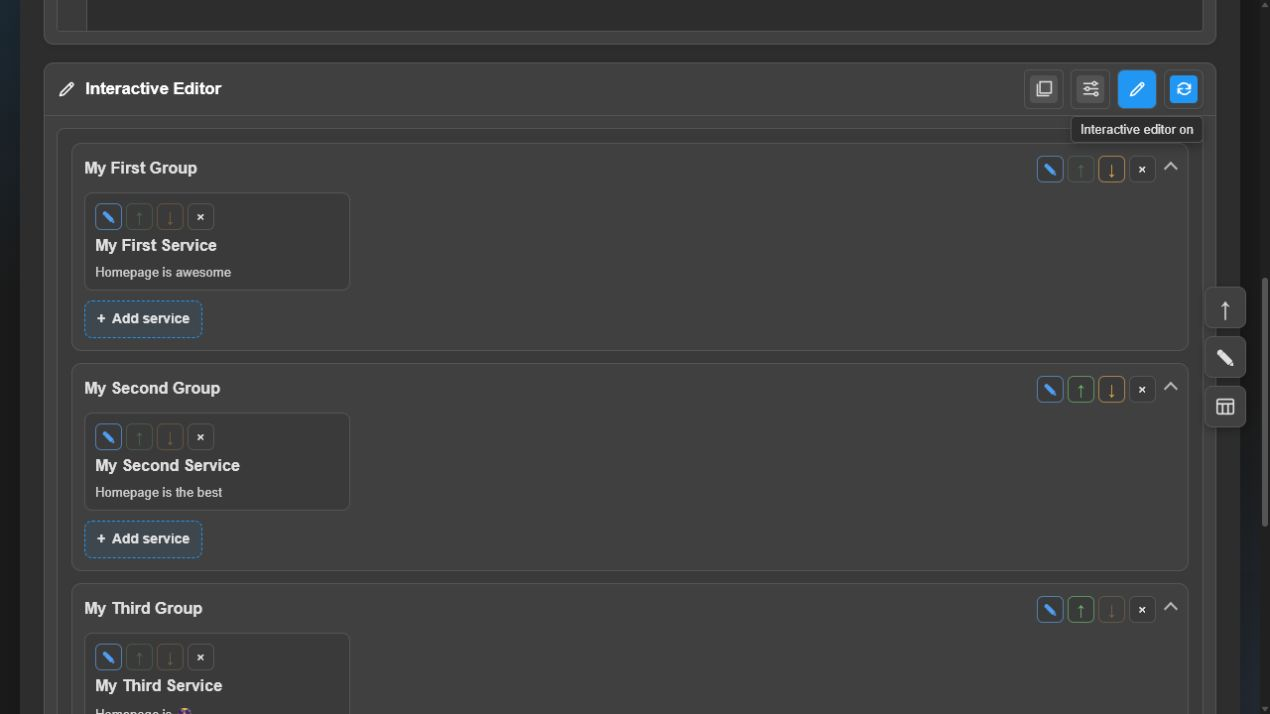
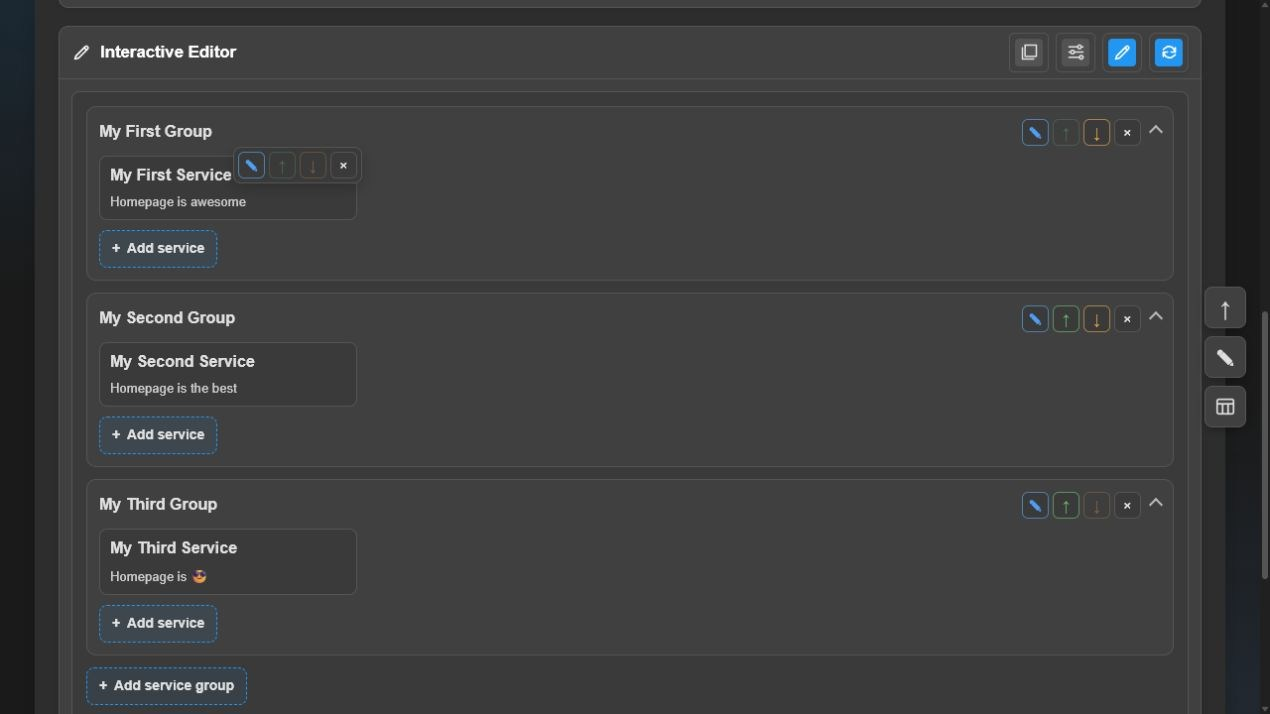
Add custom page titles and improve preview editing controls

diff --git a/public/styles.css b/public/styles.css
@@ -657,6 +657,7 @@
         .app-footer-link {
             display: inline-flex;
             align-items: center;
+            gap: 4px;
             color: inherit;
             text-decoration: none;
         }
@@ -836,6 +837,8 @@
         .refresh-btn:focus-visible > .preview-control-label,
         .toolbar-button.toolbar-icon-control:hover > .preview-control-label,
         .toolbar-button.toolbar-icon-control:focus-visible > .preview-control-label,
+        .preview-edit-action:hover > .preview-control-label,
+        .preview-edit-action:focus-visible > .preview-control-label,
         .preview-refresh-toggle:hover > .preview-control-label,
         .preview-refresh-toggle:has(input:focus-visible) > .preview-control-label {
             overflow: visible;
@@ -843,6 +846,15 @@
             clip-path: none;
             opacity: 1;
             transform: translate(-50%, 0);
+        }
+        .preview-edit-action:last-child > .preview-edit-action-label {
+            left: auto;
+            right: 0;
+            transform: translateY(-4px);
+        }
+        .preview-edit-action:last-child:hover > .preview-edit-action-label,
+        .preview-edit-action:last-child:focus-visible > .preview-edit-action-label {
+            transform: translateY(0);
         }
         .preview-canvas {
             margin: 12px;
@@ -1250,6 +1262,7 @@
             flex: 0 0 auto;
         }
         .bookmark-card {
+            position: relative;
             display: flex;
             align-items: center;
             min-width: 0;
@@ -1286,6 +1299,12 @@
         }
         .bookmark-card > .preview-edit-actions {
             margin-left: auto;
+        }
+        .preview-edit-enabled .bookmark-card-link {
+            cursor: default;
+        }
+        .preview-edit-enabled .bookmark-card-arrow {
+            display: none;
         }
         .bookmark-card-mark {
             display: grid;
@@ -1329,6 +1348,7 @@
             gap: 12px;
         }
         .dashboard-group {
+            position: relative;
             background: var(--config-item-bg);
             border: 1px solid var(--border-color);
             border-radius: 10px;
@@ -1549,17 +1569,17 @@
             position: relative;
             display: inline-grid;
             place-items: center;
-            width: 27px;
-            height: 27px;
-            min-width: 27px;
+            width: 32px;
+            height: 32px;
+            min-width: 32px;
             margin: 0;
             padding: 0;
             border: 1px solid var(--border-color);
-            border-radius: 6px;
+            border-radius: 7px;
             background: var(--preview-bg);
             color: var(--text-color);
             box-shadow: none;
-            font-size: 15px;
+            font-size: 16px;
             font-weight: 700;
             line-height: 1;
         }
@@ -1610,13 +1630,37 @@
             opacity: 0.35;
             transform: none;
         }
-        .dashboard-card > .preview-edit-actions {
-            position: static;
+        .dashboard-card > .preview-edit-actions,
+        .bookmark-card > .preview-edit-actions,
+        .dashboard-group > .dashboard-group-title > .preview-edit-actions {
+            position: absolute;
+            top: -10px;
+            right: -6px;
+            z-index: 2;
             justify-content: flex-end;
-            margin: 0 0 7px;
+            margin: 0;
+            padding: 4px;
+            border: 1px solid var(--border-color);
+            border-radius: 8px;
+            background: var(--preview-bg);
+            box-shadow: 0 5px 14px rgba(0, 0, 0, 0.2);
+            opacity: 0;
+            pointer-events: none;
+            transform: translateY(4px);
+            transition: opacity 0.15s ease, transform 0.15s ease;
         }
-        .preview-edit-enabled .dashboard-group-title::after {
-            margin-left: 0;
+        .dashboard-card:hover > .preview-edit-actions,
+        .dashboard-card > .preview-edit-actions:focus-within,
+        .bookmark-card:hover > .preview-edit-actions,
+        .bookmark-card > .preview-edit-actions:focus-within,
+        .dashboard-group:hover > .dashboard-group-title > .preview-edit-actions,
+        .dashboard-group > .dashboard-group-title > .preview-edit-actions:focus-within {
+            opacity: 1;
+            pointer-events: auto;
+            transform: translateY(0);
+        }
+        details.dashboard-group > .dashboard-group-title > .preview-edit-actions {
+            right: 34px;
         }
         .preview-add-button {
             display: inline-flex;
@@ -1642,7 +1686,9 @@
             transform: none;
         }
         .preview-add-service {
-            margin-top: 10px;
+            align-self: start;
+            justify-self: start;
+            margin-top: 0;
         }
         .preview-add-bookmark,
         .preview-add-bookmark-group {
@@ -2588,6 +2634,41 @@
             font-size: 0.78rem;
             line-height: 1.35;
             opacity: 0.7;
+        }
+        .settings-text-field {
+            display: grid;
+            gap: 6px;
+            min-width: 0;
+            padding: 9px 10px;
+            border: 1px solid var(--border-color);
+            border-radius: 10px;
+            background: var(--config-item-bg);
+            color: var(--text-color);
+        }
+        .settings-text-field > span {
+            font-size: 0.92rem;
+            font-weight: 600;
+        }
+        .settings-text-field > input {
+            width: 100%;
+            min-width: 0;
+            padding: 9px 10px;
+            box-sizing: border-box;
+            border: 1px solid var(--border-color);
+            border-radius: 7px;
+            background: var(--preview-bg);
+            color: var(--text-color);
+            font: inherit;
+        }
+        .settings-text-field > input:focus {
+            border-color: var(--button-bg);
+            outline: 2px solid color-mix(in srgb, var(--button-bg) 35%, transparent);
+            outline-offset: 1px;
+        }
+        .settings-text-field > small {
+            font-size: 0.78rem;
+            line-height: 1.25;
+            opacity: 0.68;
         }
         .settings-yaml-tabs {
             display: grid;

diff --git a/public/app.js b/public/app.js
@@ -19,6 +19,7 @@
         });
         const sampleConfigs = Object.fromEntries(configTabNames.map((tabName) => [tabName, '']));
         const createNewTabGroupValue = '__create_new_service_group__';
+        const defaultPageTitle = 'Homepage YAML Editor';
 
         async function loadSampleConfigs() {
             const response = await fetch('/api/examples', { cache: 'no-store' });
@@ -2494,7 +2495,7 @@
                     : action.endsWith('.move-down')
                         ? ' preview-edit-move-down'
                         : '';
-            return `<button type="button" class="preview-edit-action${dangerClass}${actionClass}" data-preview-action="${escapeHtml(action)}" ${getSourceAttributes(source)} aria-label="${escapeHtml(label)}" title="${escapeHtml(label)}"${disabled ? ' disabled' : ''}>${icon}</button>`;
+            return `<button type="button" class="preview-edit-action${dangerClass}${actionClass}" data-preview-action="${escapeHtml(action)}" ${getSourceAttributes(source)} aria-label="${escapeHtml(label)}"${disabled ? ' disabled' : ''}>${icon}<span class="preview-control-label preview-edit-action-label" aria-hidden="true">${escapeHtml(label)}</span></button>`;
         }
 
         function getGroupEditControls(source, position, groupCount) {
@@ -2721,14 +2722,17 @@
                 const addServiceButton = previewEditMode
                     ? `<button type="button" class="preview-add-button preview-add-service" data-preview-action="service.add" ${getSourceAttributes(serviceGroupSource)}><span aria-hidden="true">+</span> Add service</button>`
                     : '';
+                const serviceCardsGrid = cards || addServiceButton
+                    ? `<div class="dashboard-cards">${cards}${addServiceButton}</div>`
+                    : '';
                 const hasNestedGroups = Array.isArray(entries) && entries.some(isNestedServiceGroup);
                 if (hasNestedGroups) {
-                    groupsHtml += `<section class="dashboard-group dashboard-group-nested-root"${getPreviewLayoutAttributes(layoutConfig)}><div class="dashboard-group-title">${groupIcon}<span class="preview-jump-target" ${getSourceAttributes(groupSource)} ${groupTooltip}>${escapeHtml(groupName || 'Services')}</span>${groupEditControls}</div>${cards ? `<div class="dashboard-cards">${cards}</div>` : ''}<div class="dashboard-nested-groups" style="--preview-nested-columns: ${getNestedGroupColumns(layoutConfig)}">${nestedGroups}</div>${addServiceButton}</section>`;
+                    groupsHtml += `<section class="dashboard-group dashboard-group-nested-root"${getPreviewLayoutAttributes(layoutConfig)}><div class="dashboard-group-title">${groupIcon}<span class="preview-jump-target" ${getSourceAttributes(groupSource)} ${groupTooltip}>${escapeHtml(groupName || 'Services')}</span>${groupEditControls}</div>${serviceCardsGrid}<div class="dashboard-nested-groups" style="--preview-nested-columns: ${getNestedGroupColumns(layoutConfig)}">${nestedGroups}</div></section>`;
                 } else {
                     if (!cards) {
                         addPreviewNotice(`No services configured in ${groupName || 'this group'}.`);
                     }
-                    groupsHtml += `<details class="dashboard-group"${getPreviewLayoutAttributes(layoutConfig)} ${isCollapsed ? '' : 'open'}><summary class="dashboard-group-title">${groupIcon}<span class="preview-jump-target" ${getSourceAttributes(groupSource)} ${groupTooltip}>${escapeHtml(groupName || 'Services')}</span>${groupEditControls}</summary>${cards ? `<div class="dashboard-cards">${cards}</div>` : ''}${addServiceButton}</details>`;
+                    groupsHtml += `<details class="dashboard-group"${getPreviewLayoutAttributes(layoutConfig)} ${isCollapsed ? '' : 'open'}><summary class="dashboard-group-title">${groupIcon}<span class="preview-jump-target" ${getSourceAttributes(groupSource)} ${groupTooltip}>${escapeHtml(groupName || 'Services')}</span>${groupEditControls}</summary>${serviceCardsGrid}</details>`;
                 }
             });
 
@@ -2775,16 +2779,17 @@
                         : '';
                     const href = getSafeLinkUrl(bookmarkData.href);
                     const abbr = String(bookmarkData.abbr || '').trim();
+                    const description = bookmarkData.description == null ? '' : String(bookmarkData.description).trim();
                     const bookmarkTooltip = getPreviewTooltipAttributes([
-                        'Jump to this bookmark in bookmarks.yaml',
-                        `Group: ${groupName}`,
+                        'Jump to this item in bookmarks.yaml',
                         `Bookmark: ${bookmarkName}`,
+                        ...getPreviewDetailLines(bookmarkData, ['description', 'href', 'icon', 'abbr']),
                     ], { focusable: false });
                     bookmarkLinkCount += 1;
                     return `<div class="bookmark-card">
                         <a class="bookmark-card-link preview-jump-target" href="${escapeHtml(href)}" target="_blank" rel="noopener noreferrer" ${getSourceAttributes(bookmarkSource)} ${bookmarkTooltip}>
                             <span class="bookmark-card-mark" aria-hidden="true">${abbr ? escapeHtml(abbr.slice(0, 4)) : '&#8599;'}</span>
-                            <span class="bookmark-card-copy"><span class="bookmark-card-name">${escapeHtml(bookmarkName)}</span></span>
+                            <span class="bookmark-card-copy"><span class="bookmark-card-name">${escapeHtml(bookmarkName)}</span>${description ? `<span class="dashboard-card-desc">${escapeHtml(description)}</span>` : ''}</span>
                             <span class="bookmark-card-arrow" aria-hidden="true">&#8594;</span>
                         </a>
                         ${bookmarkEditControls}
@@ -2908,6 +2913,7 @@
         let settingsTabOrderDraft = [...configTabNames];
         let savedAppSettings = {
             theme: document.body.classList.contains('light-mode') ? 'light' : 'dark',
+            customPageTitle: '',
             autoIndent: autoIndentToggle.checked,
             previewAutoRefresh: previewAutoRefreshToggle.checked,
             editorVisible: editorVisibilityToggle.checked,
@@ -2993,6 +2999,7 @@
         function applyPersistentAppSettings(settings) {
             savedAppSettings = {
                 theme: settings.theme === 'light' ? 'light' : 'dark',
+                customPageTitle: typeof settings.customPageTitle === 'string' ? settings.customPageTitle.trim() : '',
                 autoIndent: settings.autoIndent !== false,
                 previewAutoRefresh: settings.previewAutoRefresh !== false,
                 editorVisible: settings.editorVisible !== false,
@@ -3001,6 +3008,9 @@
                 visibleTabs: normalizeVisibleConfigTabs(settings.visibleTabs, normalizeConfigTabOrder(settings.tabOrder))
             };
             applyConfigTabNavigation();
+            const pageTitle = savedAppSettings.customPageTitle || defaultPageTitle;
+            document.title = pageTitle;
+            document.getElementById('app-title').textContent = pageTitle;
             applyTheme(savedAppSettings.theme !== 'light');
             autoIndentToggle.checked = savedAppSettings.autoIndent;
             previewAutoRefreshToggle.checked = savedAppSettings.previewAutoRefresh;
@@ -3079,6 +3089,7 @@
             settingsModalPreviousFocus = document.activeElement;
             const settings = getPersistentAppSettings();
             document.querySelector(`input[name="settings-theme"][value="${settings.theme}"]`).checked = true;
+            document.getElementById('settings-custom-page-title').value = settings.customPageTitle;
             document.getElementById('settings-auto-indent').checked = settings.autoIndent;
             document.getElementById('settings-preview-auto-refresh').checked = settings.previewAutoRefresh;
             document.getElementById('settings-editor-visible').checked = settings.editorVisible;
@@ -3105,6 +3116,7 @@
             const tabSettings = getSettingsTabDraftFromControls();
             applyPersistentAppSettings({
                 theme,
+                customPageTitle: document.getElementById('settings-custom-page-title').value,
                 autoIndent: document.getElementById('settings-auto-indent').checked,
                 previewAutoRefresh: document.getElementById('settings-preview-auto-refresh').checked,
                 editorVisible: document.getElementById('settings-editor-visible').checked,
@@ -3228,6 +3240,15 @@
             if (target.classList.contains('preview-tab-btn')) {
                 previewHomepageTab = target.getAttribute('data-preview-tab');
                 updatePreview();
+                return;
+            }
+            if (previewEditToggle.checked
+                && !previewEditToggle.disabled
+                && !target.classList.contains('yaml-error-card')) {
+                if (target.classList.contains('bookmark-card-link')) {
+                    event.preventDefault();
+                    event.stopPropagation();
+                }
                 return;
             }
             event.preventDefault();

diff --git a/public/index.html b/public/index.html
@@ -7,7 +7,7 @@
     <link rel="icon" href="favicon.ico?v=2" type="image/x-icon">
     <link rel="shortcut icon" href="favicon.ico?v=2" type="image/x-icon">
     <link rel="stylesheet" href="https://cdn.jsdelivr.net/npm/codemirror@5.65.16/lib/codemirror.min.css">
-        <link rel="stylesheet" href="styles.css?v=133">
+        <link rel="stylesheet" href="styles.css?v=143">
     <script src="runtime-config.js"></script>
     <script>
         if (window.APP_CONFIG && window.APP_CONFIG.defaultTheme === 'light') {
@@ -35,7 +35,7 @@
     </div>
     <div class="container">
         <header class="page-header">
-            <h1>Homepage YAML Editor</h1>
+            <h1 id="app-title">Homepage YAML Editor</h1>
             <div class="header-actions">
                 <a class="docs-link header-icon-control" href="https://gethomepage.dev/configs/" target="_blank" rel="noopener noreferrer" aria-label="Open Homepage configuration documentation">
                     <svg class="header-control-svg" viewBox="0 0 24 24" aria-hidden="true" focusable="false">
@@ -282,6 +282,11 @@
                                         <label class="settings-theme-option"><input type="radio" name="settings-theme" value="light"><span class="settings-theme-icon" aria-hidden="true">&#9788;</span><span>Light</span></label>
                                     </div>
                                 </fieldset>
+                                <label class="settings-text-field" for="settings-custom-page-title">
+                                    <span>Custom page title</span>
+                                    <input type="text" id="settings-custom-page-title" maxlength="200" placeholder="Homepage YAML Editor">
+                                    <small>Leave blank to use Homepage YAML Editor</small>
+                                </label>
                                 <label class="settings-toggle"><input type="checkbox" id="settings-interactive-editor"><span class="settings-control-icon settings-interactive-icon" aria-hidden="true">&#9998;</span><span class="settings-toggle-copy"><strong>Interactive Editor</strong><small>Enable editing controls on load</small></span><span class="settings-toggle-state" aria-hidden="true"><span class="settings-state-on">&#10003;</span><span class="settings-state-off">&times;</span></span></label>
                                 <label class="settings-toggle"><input type="checkbox" id="settings-editor-visible"><span class="settings-control-icon" aria-hidden="true">&#128065;</span><span class="settings-toggle-copy"><strong>Show YAML Editor</strong><small>Display the YAML editing panel on load</small></span><span class="settings-toggle-state" aria-hidden="true"><span class="settings-state-on">&#10003;</span><span class="settings-state-off">&times;</span></span></label>
                             </div>
@@ -396,6 +401,6 @@
     <script src="https://cdn.jsdelivr.net/npm/js-yaml@4.1.0/dist/js-yaml.min.js"></script>
     <script src="https://cdn.jsdelivr.net/npm/codemirror@5.65.16/lib/codemirror.min.js"></script>
     <script src="https://cdn.jsdelivr.net/npm/codemirror@5.65.16/mode/yaml/yaml.min.js"></script>
-    <script src="app.js?v=112"></script>
+    <script src="app.js?v=120"></script>
 </body>
 </html>

diff --git a/tests/server.test.js b/tests/server.test.js
@@ -101,6 +101,7 @@ test('serves optimized assets and supports the active configuration APIs', async
     const defaultAppSettings = await (await fetch(`${baseUrl}/api/app-settings`)).json();
     assert.deepEqual(defaultAppSettings.settings, {
       theme: 'light',
+      customPageTitle: '',
       autoIndent: true,
       previewAutoRefresh: true,
       editorVisible: true,
@@ -114,6 +115,7 @@ test('serves optimized assets and supports the active configuration APIs', async
       body: JSON.stringify({
         settings: {
           theme: 'dark', autoIndent: false, previewAutoRefresh: false, editorVisible: false, interactiveEditor: true,
+          customPageTitle: '  My YAML Dashboard  ',
           visibleTabs: ['kubernetes', 'services'], tabOrder: ['kubernetes', 'services'], ignored: 'value'
         }
       })
@@ -121,6 +123,7 @@ test('serves optimized assets and supports the active configuration APIs', async
     assert.equal(settingsSaveResponse.status, 200);
     assert.deepEqual((await settingsSaveResponse.json()).settings, {
       theme: 'dark',
+      customPageTitle: 'My YAML Dashboard',
       autoIndent: false,
       previewAutoRefresh: false,
       editorVisible: false,
@@ -130,6 +133,7 @@ test('serves optimized assets and supports the active configuration APIs', async
     });
     assert.deepEqual(JSON.parse(await fs.readFile(path.join(appDataDir, 'settings.json'), 'utf8')), {
       theme: 'dark',
+      customPageTitle: 'My YAML Dashboard',
       autoIndent: false,
       previewAutoRefresh: false,
       editorVisible: false,

diff --git a/server.js b/server.js
@@ -68,6 +68,7 @@ app.locals.startupFiles = {};
 function getDefaultAppSettings() {
   return {
     theme: DEFAULT_THEME,
+    customPageTitle: '',
     autoIndent: true,
     previewAutoRefresh: true,
     editorVisible: true,
@@ -222,6 +223,7 @@ function normalizeAppSettings(value) {
   const tabOrder = normalizeTabOrder(value.tabOrder);
   return {
     theme: value.theme === 'light' ? 'light' : value.theme === 'dark' ? 'dark' : defaults.theme,
+    customPageTitle: typeof value.customPageTitle === 'string' ? value.customPageTitle.trim() : defaults.customPageTitle,
     autoIndent: typeof value.autoIndent === 'boolean' ? value.autoIndent : defaults.autoIndent,
     previewAutoRefresh: typeof value.previewAutoRefresh === 'boolean'
       ? value.previewAutoRefresh : defaults.previewAutoRefresh,

diff --git a/README.md b/README.md
@@ -26,7 +26,7 @@ Add, edit, reorder, and remove dashboard groups, services, and bookmarks from th
 - Renders groups, service cards, bookmarks, widgets, icons, layouts, and common Homepage options in the preview.
 - Includes an Interactive Editor for adding, editing, moving, reordering, and deleting supported dashboard items.
 - Keeps changes pending until Save, with undo support and a ZIP download for all loaded files.
-- Remembers theme, visible tabs, editor preferences, and custom option types.
+- Remembers theme, a custom page and browser-tab title, visible tabs, editor preferences, and custom option types.
 - Lets custom option types target any combination of services, service groups, and bookmarks.
 - Can be protected with an optional username and password.
 